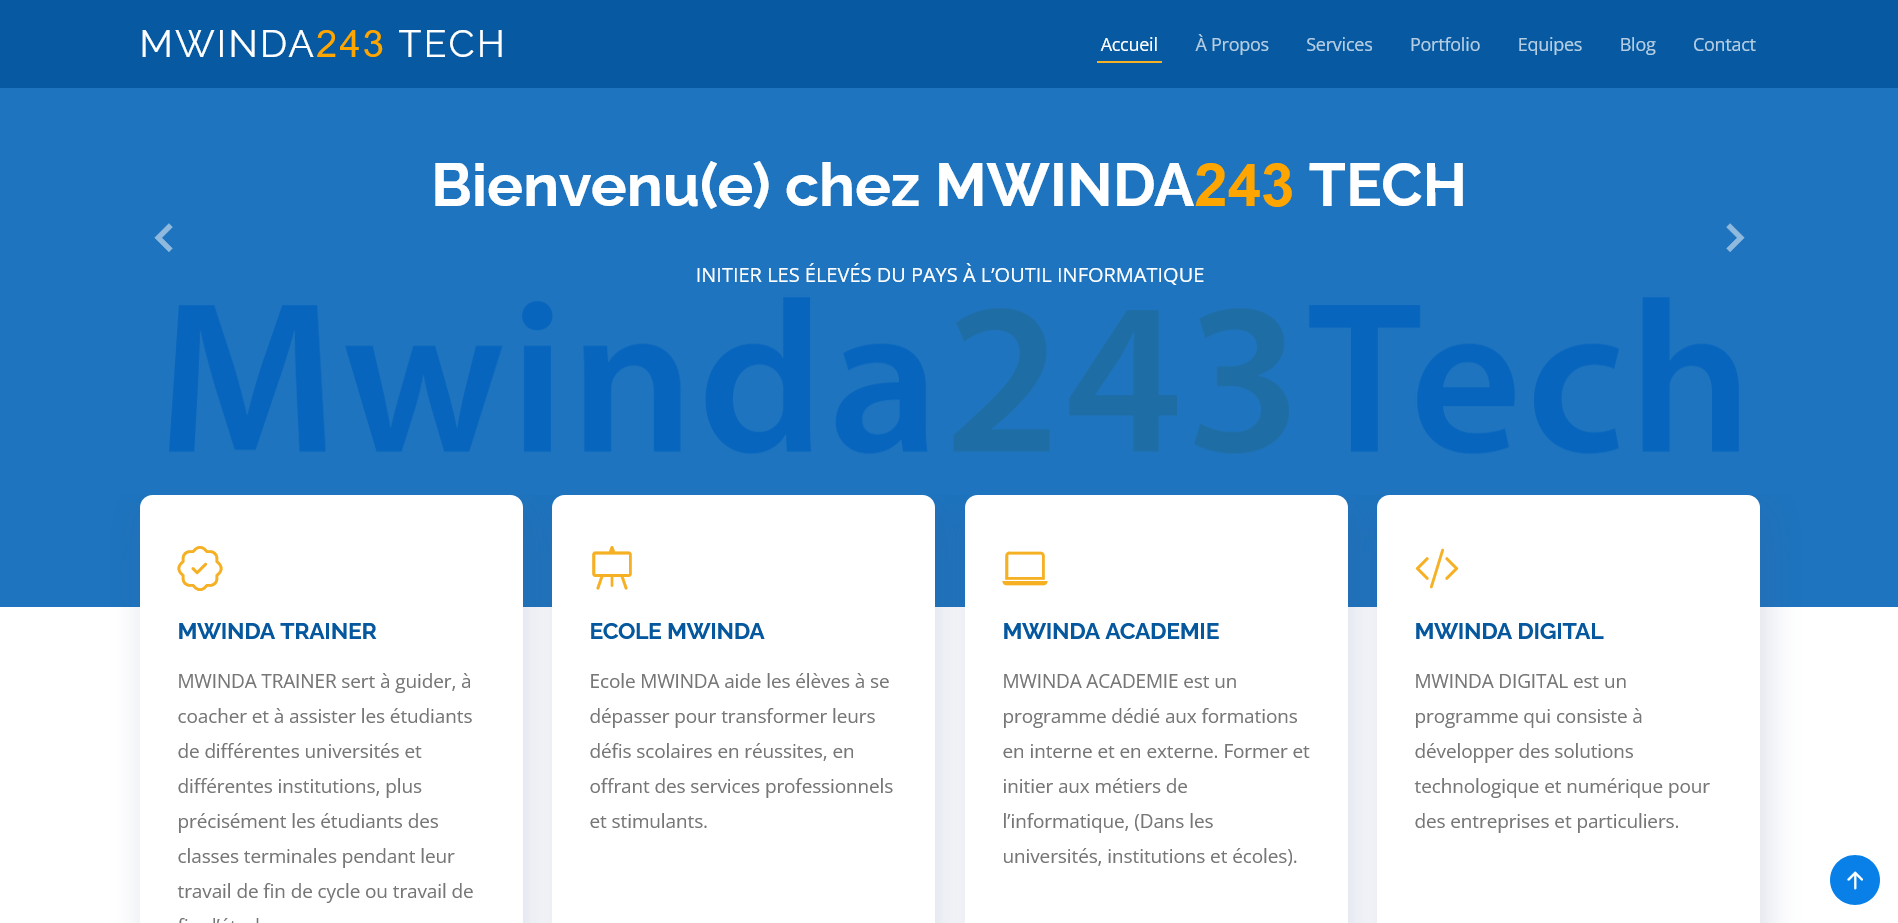
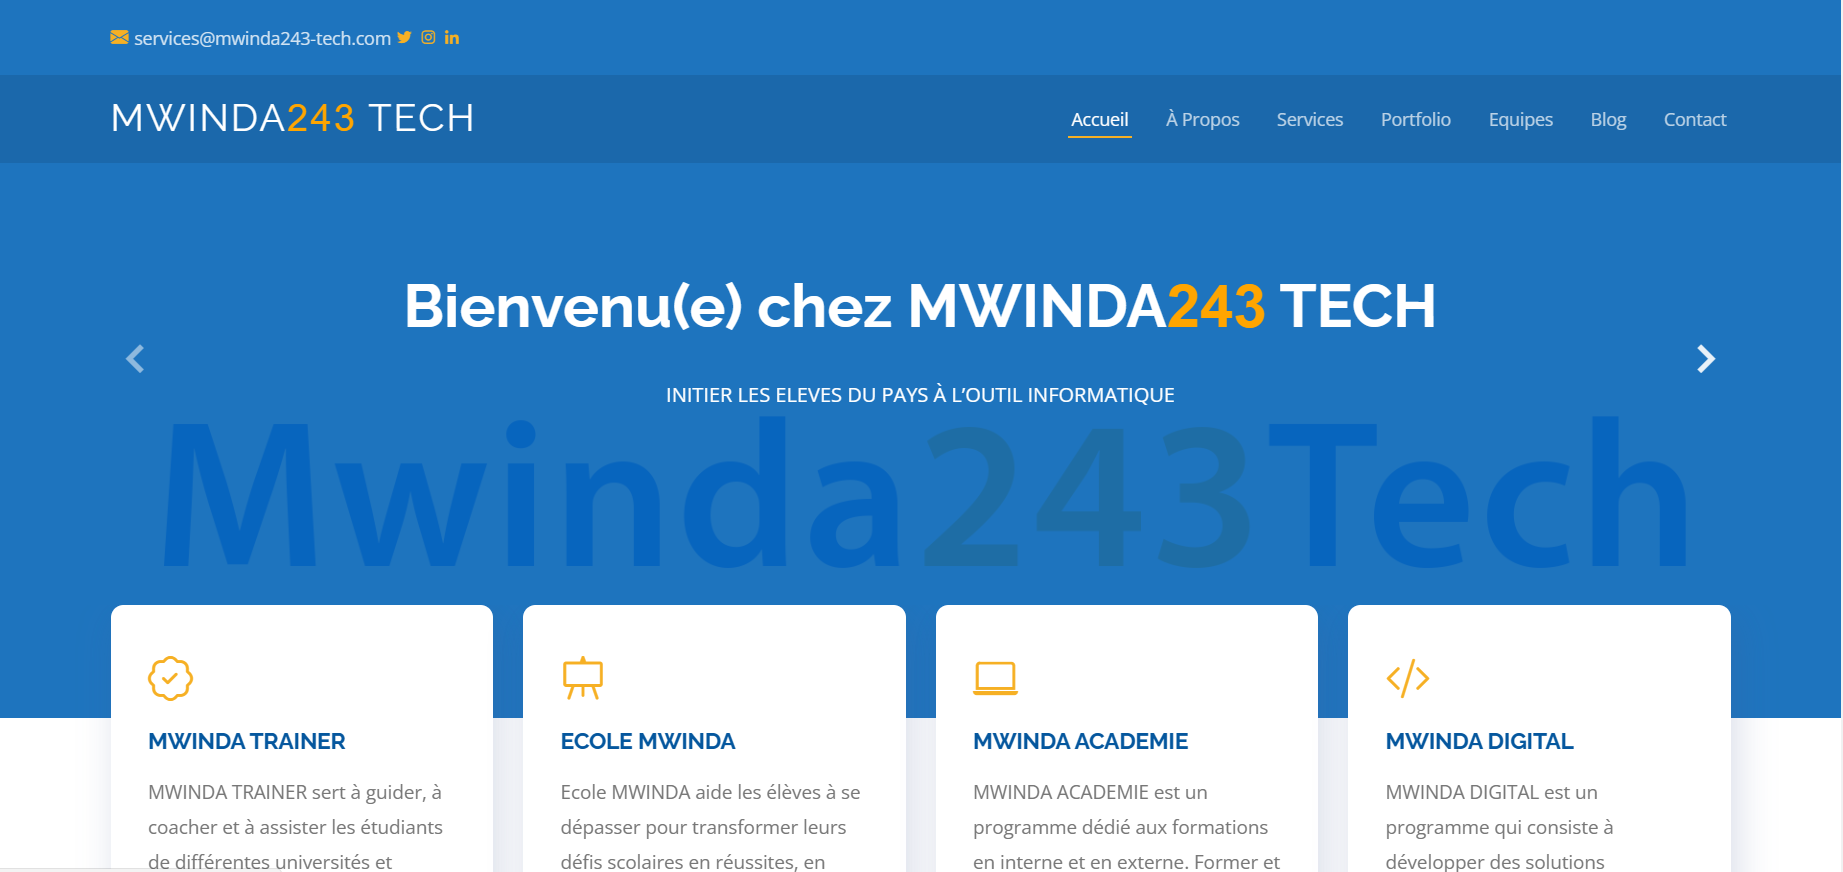
ADD CLIENT SECTION AND FIX ERROR

diff --git a/index.html b/index.html
@@ -78,7 +78,7 @@
       <div class="carousel-item active">
         <div class="carousel-container">
           <h2 class="animate__animated animate__fadeInDown">Bienvenu(e) chez MWINDA<span style="color : #FFA500; font-family: sans-serif;">243</span> TECH</h2>
-          <p class="animate__animated animate__fadeInUp">INITIER LES ÉLEVÉS DU PAYS À L’OUTIL INFORMATIQUE</p>
+          <p class="animate__animated animate__fadeInUp">INITIER LES ELEVES DU PAYS À L’OUTIL INFORMATIQUE</p>
         </div>
       </div>
 
@@ -180,7 +180,7 @@
               L'ordinateur est devenu un outil omniprésent dans nos vies, mais savons-nous vraiment nous en servir ? Des bases de l'informatique aux astuces plus poussées, MWINDA243 TECH vous donne les clés pour maîtriser les complexités du  monde numérique.
             </p>
             <p>
-              La Vulgarisation de l'informatique  est un programme destiné à vouS faire comprendre l’informatique de manière simple, claire et précise.
+              La Vulgarisation de l'informatique  est un programme destiné à vous faire comprendre l’informatique de manière simple, claire et précise.
             </p>
           </div>
         </div>
@@ -188,6 +188,32 @@
       </div>
     </section>
     <!-- Fin de la section À propos de nous -->
+
+    <!-- ======= Section clients ======= -->
+    <section id="clients" class="clients">
+      <div class="container" data-aos="zoom-in">
+
+        <div class="clients-slider swiper">
+          <div class="swiper-wrapper align-items-center">
+            <div class="swiper-slide"><img src="assets/img/clients/flutter-logo.webp" class="img-fluid" alt=""></div>
+            <div class="swiper-slide"><img src="assets/img/clients/iconnec-logo.jpg" class="img-fluid" alt=""></div>
+            <div class="swiper-slide"><img src="assets/img/clients/Logo_Microsoft_Office_365.png" class="img-fluid" alt=""></div>
+            <div class="swiper-slide"><img src="assets/img/clients/php-logo.png" class="img-fluid" alt=""></div>
+            <div class="swiper-slide"><img src="assets/img/clients/sql-logo.png" class="img-fluid" alt=""></div>
+            <div class="swiper-slide"><img src="assets/img/clients/sqlserver-logo.png" class="img-fluid" alt=""></div>
+            <div class="swiper-slide"><img src="assets/img/clients/symfony-logo.png" class="img-fluid" alt=""></div>
+            <div class="swiper-slide"><img src="assets/img/clients/goodben-logo.png" class="img-fluid" alt=""></div>
+            <div class="swiper-slide"><img src="assets/img/clients/css-logo.png" class="img-fluid" alt=""></div>
+            <div class="swiper-slide"><img src="assets/img/clients/github-logo.png" class="img-fluid" alt=""></div>
+            <div class="swiper-slide"><img src="assets/img/clients/html-logo.png" class="img-fluid" alt=""></div>
+            <div class="swiper-slide"><img src="assets/img/clients/mysql-logo.png" class="img-fluid" alt=""></div>
+            <div class="swiper-slide"><img src="assets/img/clients/Python-logo.png" class="img-fluid" alt=""></div>
+          </div>
+          <div class="swiper-pagination"></div>
+        </div>
+
+      </div>
+    </section><!-- Fin de la Section Clients -->
 
 
     <!-- ======= Section des services ======= -->
@@ -264,7 +290,7 @@
       <div class="container" data-aos="fade-up">
 
         <div class="section-title">
-          <h2>Nous contactez</h2>
+          <h2>Nous contacter</h2>
         </div>
 
         <div class="row mt-1 d-flex justify-content-end" data-aos="fade-right" data-aos-delay="100">
@@ -286,7 +312,7 @@
               <div class="phone">
                 <i class="bi bi-phone"></i>
                 <h4>Téléphone :</h4>
-                <p>+243 828120996</p>
+                <p>+243 973774649</p>
               </div>
             </div>
           </div>

diff --git a/blog/mwinda243_tech.html b/blog/mwinda243_tech.html
@@ -114,7 +114,7 @@
 
               <div class="entry-content">
                 <p>
-                  Proposer des solutions informatiques  en vue d'automatiser et de rendre plus simple les quotidiens des entreprises et particuliers.
+                  Propose des solutions informatiques  en vue d'automatiser et de rendre plus simple les quotidiens des entreprises et particuliers.
                 </p>
                 <p>
                   Initier les jeunes et les élèves aux métiers de l'informatique.
@@ -141,7 +141,7 @@
 
                 <h3> L’INFORMATIQUE POUR TOUS </h3> 
                 <p>
-                  INITIER LES ÉLEVÉS DU PAYS À L’OUTIL INFORMATIQUE
+                  INITIER LES ELEVES DU PAYS À L’OUTIL INFORMATIQUE
                   L'ordinateur est devenu un outil omniprésent dans nos vies, mais savons-nous vraiment nous en servir ? Des bases de l'informatique aux astuces plus poussées, ce programme vous donne les clés pour maîtriser les complexités du  monde numérique.
                 </p> 
 

diff --git a/team.html b/team.html
@@ -153,7 +153,7 @@
 
           <div class="col-lg-6 mt-4" data-aos="fade-up" data-aos-delay="200">
             <div class="member d-flex align-items-start">
-              <div class="pic"><img src="assets/img/team/team-12.png" class="img-fluid" alt=""></div>
+              <div class="pic"><img src="assets/img/team/team-13.jpg" class="img-fluid" alt=""></div>
               <div class="member-info">
                 <h4>MARDOCHEE MBUYAMBA</h4>
                 <span>Directeur financier</span>
